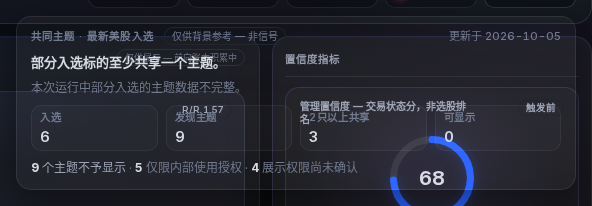
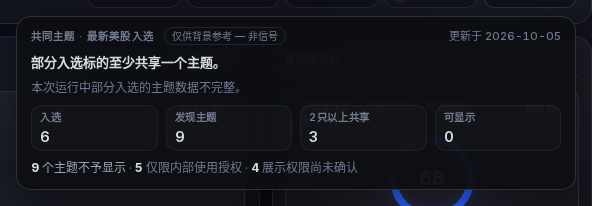
prophet(us): gate #8 D2 r4 - opaque popover surface (incumbent .obs-modal dialog idiom) + e2e opacity assertion

diff --git a/terminal/e2e/selection-cohort-tile.spec.ts b/terminal/e2e/selection-cohort-tile.spec.ts
@@ -94,6 +94,14 @@ test.describe("Selection cohort masthead tile (D2)", () => {
     await page.keyboard.press("Enter");
     const popover = page.getByTestId("selection-cohort-popover");
     await expect(popover).toBeVisible();
+    const bg = await popover.evaluate((el) => getComputedStyle(el).backgroundColor);
+    const alpha = (() => {
+      const slash = bg.match(/\/\s*([\d.]+%?)\s*\)\s*$/);
+      if (slash) return slash[1].endsWith("%") ? parseFloat(slash[1]) / 100 : parseFloat(slash[1]);
+      const rgba = bg.match(/^rgba\(\s*[\d.]+\s*,\s*[\d.]+\s*,\s*[\d.]+\s*,\s*([\d.]+)\s*\)$/);
+      return rgba ? parseFloat(rgba[1]) : 1;
+    })();
+    expect(alpha, `popover background must be an opaque overlay surface, got ${bg}`).toBeGreaterThanOrEqual(0.95);
     await expect(tile).toHaveAttribute("aria-expanded", "true");
 
     const topHit = await page.evaluate(() => {

diff --git a/terminal/components/prophet/SelectionCohortCard.module.css b/terminal/components/prophet/SelectionCohortCard.module.css
@@ -66,6 +66,11 @@
   padding: 10px 14px 12px;
   box-shadow: 0 12px 40px rgba(0, 0, 0, 0.45);
 }
+/* D2.3: overlay surface = incumbent dialog idiom (.obs-modal); .obs-card's 3% wash is see-through over the grid. */
+.popover:global(.obs-card) {
+  background: color-mix(in srgb, var(--panel) 96%, transparent);
+  border-color: rgba(255, 255, 255, 0.14);
+}
 .panelHead {
   display: flex;
   flex-wrap: wrap;
